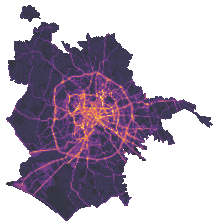
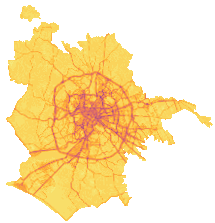
edits concentration map

diff --git a/resources/windowTemplate.js b/resources/windowTemplate.js
@@ -155,8 +155,8 @@ function legendTemplateNOx(){
                     <div>
                         <img src="./images/gradient_NO2.jpeg" class="gradient"/> 
                         <div class="row space-between">
-                            <span>23,4</span>
-                            <span>46,8</span>
+                            <span>20</span>
+                            <span>60</span>
                         </div>
                     </div>
                 </div>
